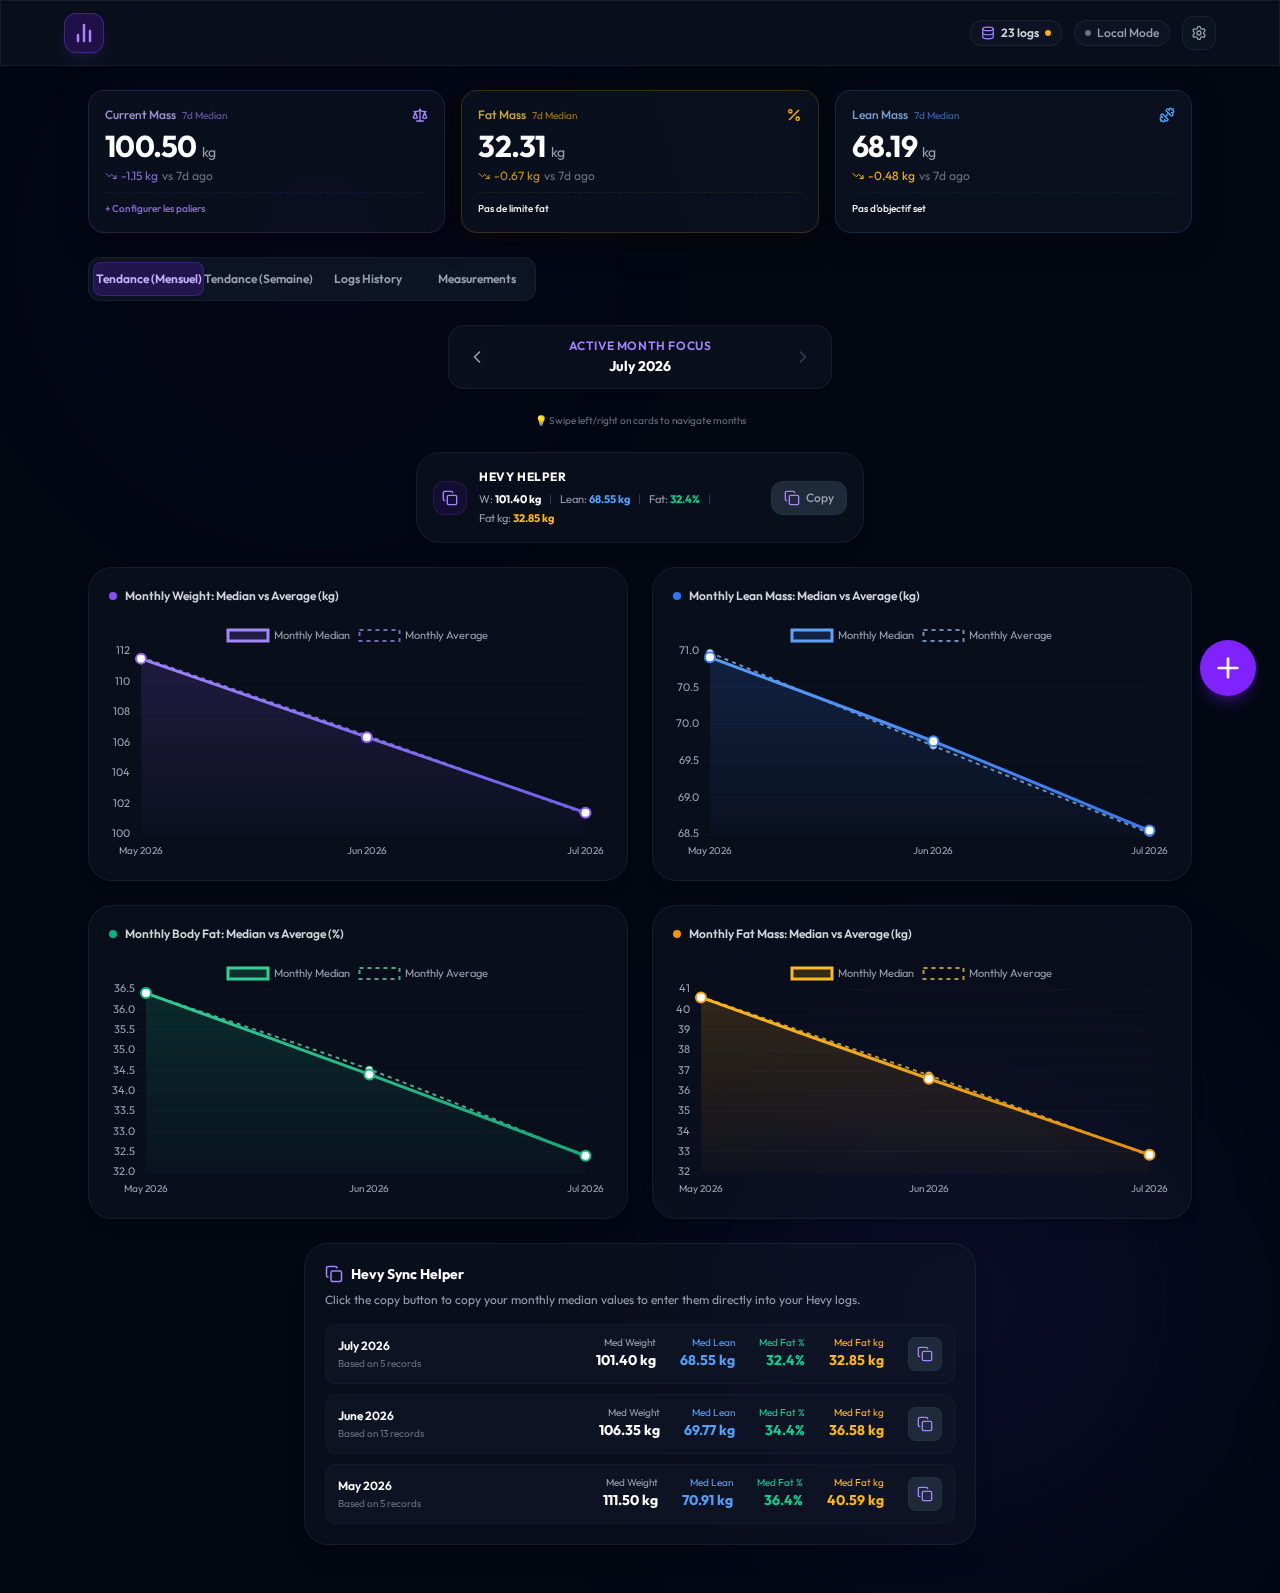
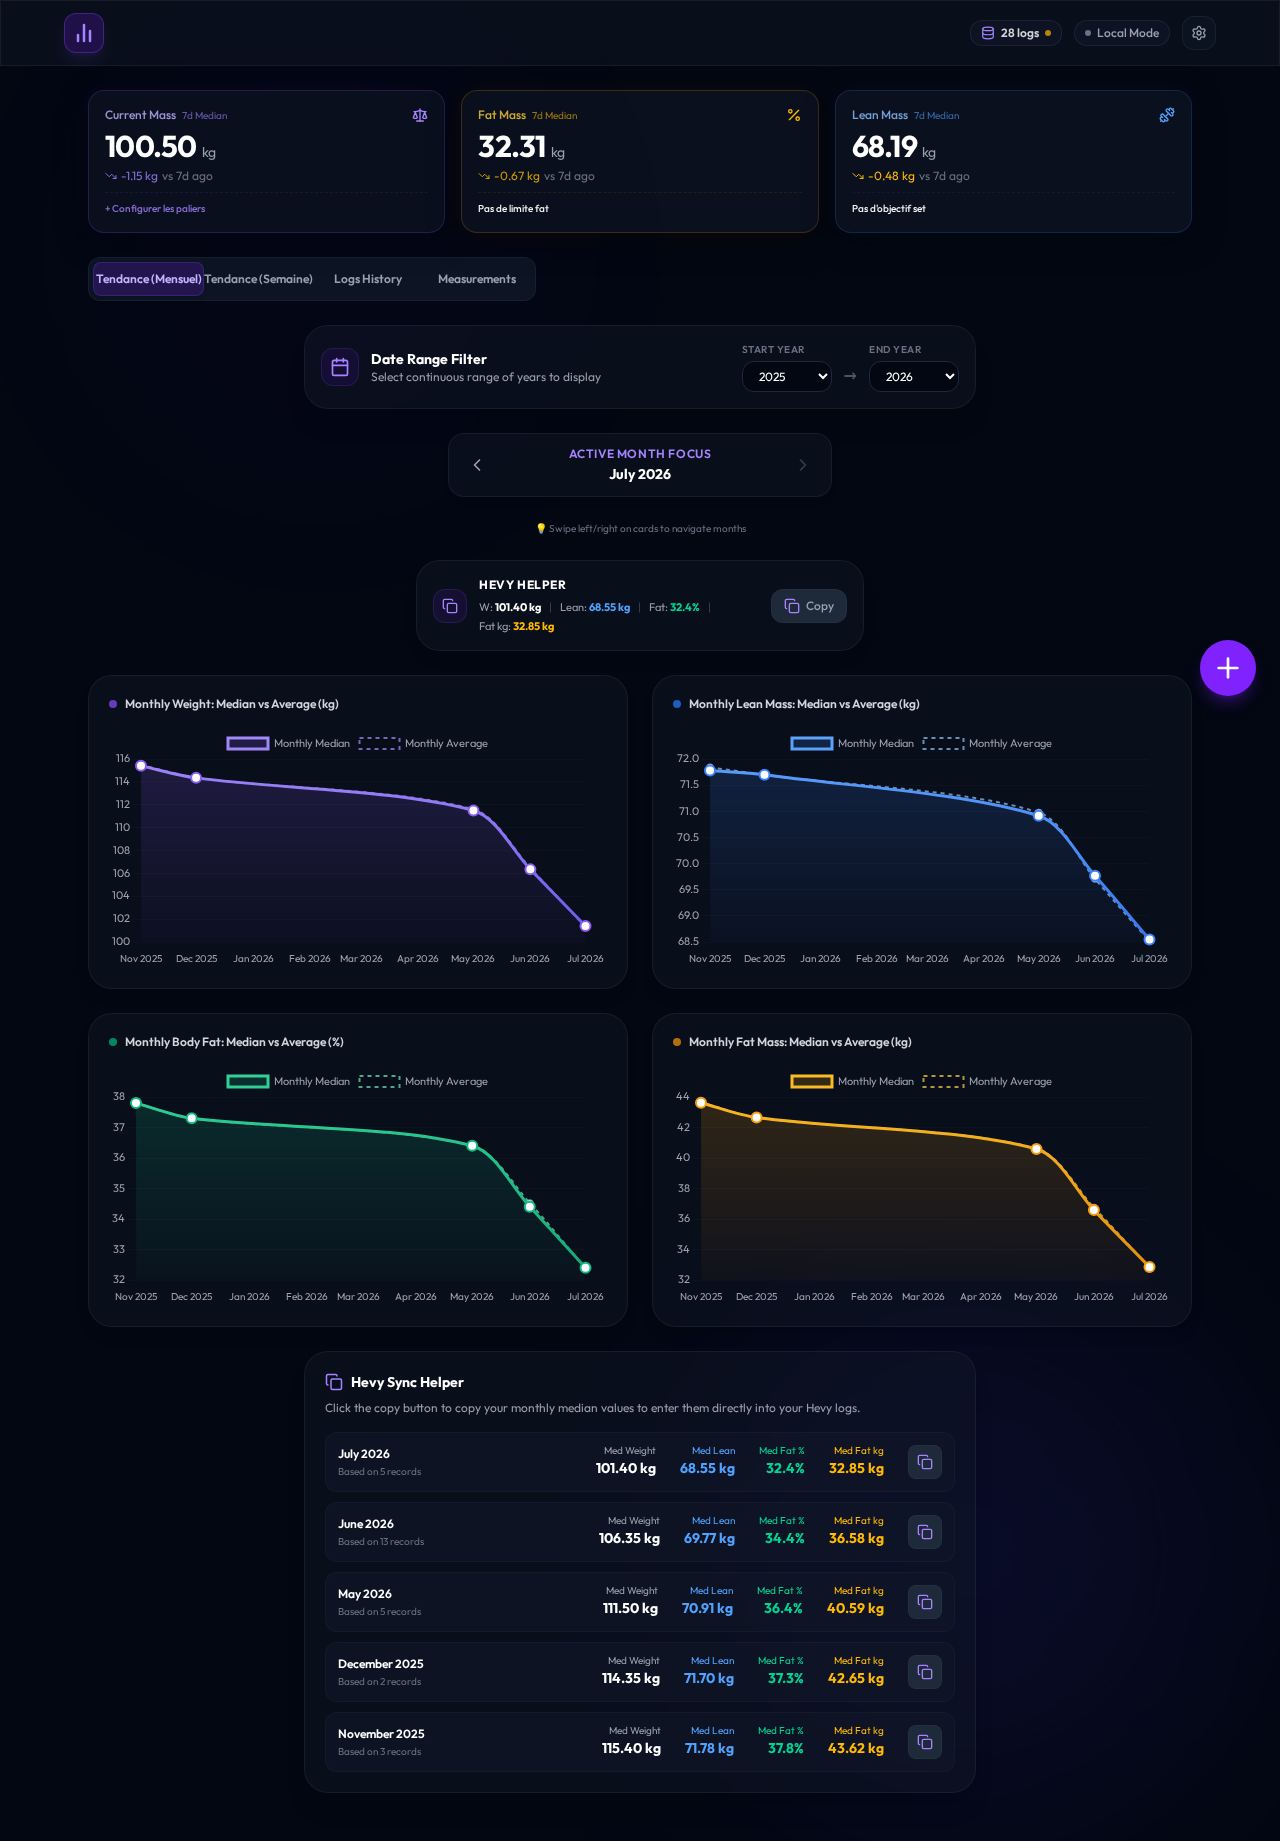
feat: implement dynamic year range selector for trend charts and Hevy sync list (#43)
- Updated the database seed datasets in `tests/db-helper.js` and `tests/bodyGraph.store.unit.spec.js` to cover 2+ years of logs (extending into late 2025 and 2026).
- Implemented state variables `startYear` and `endYear` along with the `availableYears` getter in the Pinia store (`src/stores/bodyGraph.js`).
- Integrated dynamic filtering by selected year range into `groupedMonths` and `groupedWeeks` store getters, keeping top-level dashboard statistics unaffected.
- Created a premium glassmorphic `YearRangeSelector.vue` component with automatic date range constraints and dropdown select options.
- Incorporated `YearRangeSelector` into `ProgressCharts.vue` along with automated watchers to safely clamp month and week focus indices upon range modifications.
- Adjusted all Vitest and Playwright test suites to align with updated database seed lengths; all tests pass successfully.

diff --git a/tests/bodyGraph.store.unit.spec.js b/tests/bodyGraph.store.unit.spec.js
@@ -68,7 +68,14 @@ const { mockLogs, mockMeasurements } = vi.hoisted(() => {
       { id: 'y2', date: '2026-05-20', mass: 111.20, body_fat: 36.3, synced: true, user_id: 'guest' },
       { id: 'y3', date: '2026-05-15', mass: 111.50, body_fat: 36.4, synced: true, user_id: 'guest' },
       { id: 'y4', date: '2026-05-10', mass: 112.10, body_fat: 36.5, synced: true, user_id: 'guest' },
-      { id: 'y5', date: '2026-05-05', mass: 112.40, body_fat: 36.6, synced: true, user_id: 'guest' }
+      { id: 'y5', date: '2026-05-05', mass: 112.40, body_fat: 36.6, synced: true, user_id: 'guest' },
+
+      // --- Late 2025 (Second year data coverage) ---
+      { id: 'h1', date: '2025-12-15', mass: 114.20, body_fat: 37.2, synced: true, user_id: 'guest' },
+      { id: 'h2', date: '2025-12-10', mass: 114.50, body_fat: 37.4, synced: true, user_id: 'guest' },
+      { id: 'h3', date: '2025-11-28', mass: 115.10, body_fat: 37.6, synced: true, user_id: 'guest' },
+      { id: 'h4', date: '2025-11-20', mass: 115.40, body_fat: 37.8, synced: true, user_id: 'guest' },
+      { id: 'h5', date: '2025-11-12', mass: 116.00, body_fat: 38.0, synced: true, user_id: 'guest' }
     ],
     mockMeasurements: [
       // An unsynced entry for offline/unsynced test coverage
@@ -184,7 +191,7 @@ describe('useBodyGraphStore', () => {
     it('groupedMonths processes and sorts logs into monthly groups correctly', () => {
       const store = useBodyGraphStore();
       const months = store.groupedMonths;
-      expect(months).toHaveLength(3);
+      expect(months).toHaveLength(5);
 
       // July 2026 (newest month should be first)
       expect(months[0].id).toBe('2026-07');
@@ -301,23 +308,31 @@ describe('useBodyGraphStore', () => {
 
     it('goToPreviousMonth/goToNextMonth navigates months bounds safely', () => {
       const store = useBodyGraphStore();
-      expect(store.groupedMonths).toHaveLength(3);
+      const count = store.groupedMonths.length;
+      expect(count).toBe(5);
       expect(store.selectedMonthIndex).toBe(0);
 
       store.goToPreviousMonth();
       expect(store.selectedMonthIndex).toBe(1);
 
-      store.goToPreviousMonth();
-      expect(store.selectedMonthIndex).toBe(2);
+      // Navigate to the end
+      for (let i = 2; i < count; i++) {
+        store.goToPreviousMonth();
+      }
+      const maxIndex = count - 1;
+      expect(store.selectedMonthIndex).toBe(maxIndex);
 
       // Boundary check
       store.goToPreviousMonth();
-      expect(store.selectedMonthIndex).toBe(2);
+      expect(store.selectedMonthIndex).toBe(maxIndex);
 
       store.goToNextMonth();
-      expect(store.selectedMonthIndex).toBe(1);
+      expect(store.selectedMonthIndex).toBe(maxIndex - 1);
 
-      store.goToNextMonth();
+      // Navigate back to 0
+      for (let i = maxIndex - 1; i > 0; i--) {
+        store.goToNextMonth();
+      }
       expect(store.selectedMonthIndex).toBe(0);
 
       // Boundary check
@@ -354,7 +369,7 @@ describe('useBodyGraphStore', () => {
       await store.enableGuestMode();
       expect(store.isGuestMode).toBe(true);
       expect(db.getAllLogs).toHaveBeenCalledWith('guest');
-      expect(store.logs).toHaveLength(23);
+      expect(store.logs).toHaveLength(28);
     });
 
     it('syncSingleGoalsFromActivePalier pulls targets from first unvalidated palier', () => {
@@ -453,7 +468,7 @@ describe('useBodyGraphStore', () => {
       expect(store.isGuestMode).toBe(false);
       expect(supabase.auth.signOut).toHaveBeenCalled();
       expect(db.getAllLogs).toHaveBeenCalledWith('guest');
-      expect(store.logs).toHaveLength(23);
+      expect(store.logs).toHaveLength(28);
     });
 
     it('initAuth sets up targets and sets up supabase auth callbacks', async () => {

diff --git a/tests/db.spec.js b/tests/db.spec.js
@@ -36,11 +36,11 @@ test.describe('IndexedDB Database Helpers', () => {
       return await window.__db.getAllLogs('guest');
     });
 
-    // Check we have the 23 logs from MOCK_LOGS
-    expect(guestLogs).toHaveLength(23);
+    // Check we have the 28 logs from MOCK_LOGS
+    expect(guestLogs).toHaveLength(28);
     // Verify descending order by checking first and last dates
     expect(guestLogs[0].date).toBe('2026-07-15');
-    expect(guestLogs[22].date).toBe('2026-05-05');
+    expect(guestLogs[27].date).toBe('2025-11-12');
 
     // 2. Add a new log entry to test saveLog additions
     const newLog = { date: '2026-07-20', mass: 99.5, body_fat: 31.5, synced: false };
@@ -55,7 +55,7 @@ test.describe('IndexedDB Database Helpers', () => {
     const updatedGuestLogs = await page.evaluate(async () => {
       return await window.__db.getAllLogs('guest');
     });
-    expect(updatedGuestLogs).toHaveLength(24);
+    expect(updatedGuestLogs).toHaveLength(29);
     expect(updatedGuestLogs[0].date).toBe('2026-07-20');
 
     // 3. Test saving a log for a different user to verify user_id isolation
@@ -70,17 +70,17 @@ test.describe('IndexedDB Database Helpers', () => {
     expect(userLogs).toHaveLength(1);
     expect(userLogs[0].mass).toBe(90);
 
-    // Verify guest logs still has 24 logs
+    // Verify guest logs still has 29 logs
     const finalGuestLogs = await page.evaluate(async () => {
       return await window.__db.getAllLogs('guest');
     });
-    expect(finalGuestLogs).toHaveLength(24);
+    expect(finalGuestLogs).toHaveLength(29);
   });
 
   test('deleteLog removes logs and tracks deletions offline', async ({ page }) => {
     // 1. Verify log exists in the seeded dataset
     let logs = await page.evaluate(async () => await window.__db.getAllLogs('guest'));
-    expect(logs).toHaveLength(23);
+    expect(logs).toHaveLength(28);
 
     // 2. Delete an existing synced log (e.g. 'j3')
     const deletedId = await page.evaluate(async () => {
@@ -88,9 +88,9 @@ test.describe('IndexedDB Database Helpers', () => {
     });
     expect(deletedId).toBe('j3');
 
-    // 3. Verify it is gone from the main store (count becomes 22)
+    // 3. Verify it is gone from the main store (count becomes 27)
     logs = await page.evaluate(async () => await window.__db.getAllLogs('guest'));
-    expect(logs).toHaveLength(22);
+    expect(logs).toHaveLength(27);
     expect(logs.find(l => l.id === 'j3')).toBeUndefined();
 
     // 4. Verify deletion is recorded in pending deletions store
@@ -196,7 +196,7 @@ test.describe('IndexedDB Database Helpers', () => {
     // 1. Verify we have guest logs and measurements initially
     const initialGuestLogs = await page.evaluate(async () => await window.__db.getAllLogs('guest'));
     const initialGuestMs = await page.evaluate(async () => await window.__db.getAllMeasurements('guest'));
-    expect(initialGuestLogs).toHaveLength(23);
+    expect(initialGuestLogs).toHaveLength(28);
     expect(initialGuestMs).toHaveLength(3);
 
     // 2. Run guest migration to a new user
@@ -214,7 +214,7 @@ test.describe('IndexedDB Database Helpers', () => {
     const migratedLogs = await page.evaluate(async () => await window.__db.getAllLogs('user-new-456'));
     const migratedMs = await page.evaluate(async () => await window.__db.getAllMeasurements('user-new-456'));
 
-    expect(migratedLogs).toHaveLength(23);
+    expect(migratedLogs).toHaveLength(28);
     expect(migratedLogs[0].user_id).toBe('user-new-456');
     expect(migratedLogs[0].synced).toBe(false);
 

diff --git a/src/stores/bodyGraph.js b/src/stores/bodyGraph.js
@@ -93,6 +93,8 @@ export const useBodyGraphStore = defineStore('bodyGraph', {
     targetMass: null,
     targetFat: null,
     paliers: [],
+    startYear: null,
+    endYear: null,
     
     // Index of the month in the groupedMonths list (0 is the newest month)
     selectedMonthIndex: 0,
@@ -104,6 +106,19 @@ export const useBodyGraphStore = defineStore('bodyGraph', {
   }),
 
   getters: {
+    availableYears(state) {
+      if (state.logs.length === 0) return [];
+      const yearsSet = new Set();
+      for (const log of state.logs) {
+        if (log.date) {
+          const yr = new Date(log.date).getFullYear();
+          if (!isNaN(yr)) {
+            yearsSet.add(yr);
+          }
+        }
+      }
+      return Array.from(yearsSet).sort((a, b) => b - a);
+    },
     showDashboard: (state) => {
       return !!state.user || state.isGuestMode;
     },
@@ -148,8 +163,16 @@ export const useBodyGraphStore = defineStore('bodyGraph', {
     // Groups logs into weeks (Monday to Sunday) and computes stats
     // Groups logs into months and computes true median stats based on all raw logs
     groupedMonths() {
-      const logsToUse = this.logsWithEstimates;
+      let logsToUse = this.logsWithEstimates;
       if (logsToUse.length === 0) return [];
+
+      // Filter by start and end years if they are set
+      if (this.startYear !== null && this.endYear !== null) {
+        logsToUse = logsToUse.filter(log => {
+          const yr = new Date(log.date).getFullYear();
+          return yr >= this.startYear && yr <= this.endYear;
+        });
+      }
 
       const groups = {};
 
@@ -204,8 +227,16 @@ export const useBodyGraphStore = defineStore('bodyGraph', {
     },
 
     groupedWeeks() {
-      const logsToUse = this.logsWithEstimates;
+      let logsToUse = this.logsWithEstimates;
       if (logsToUse.length === 0) return [];
+
+      // Filter by start and end years if they are set
+      if (this.startYear !== null && this.endYear !== null) {
+        logsToUse = logsToUse.filter(log => {
+          const yr = new Date(log.date).getFullYear();
+          return yr >= this.startYear && yr <= this.endYear;
+        });
+      }
 
       const groups = {};
 
@@ -713,6 +744,17 @@ export const useBodyGraphStore = defineStore('bodyGraph', {
       try {
         this.logs = await getAllLogs(this.currentUserId);
         this.measurements = await getAllMeasurements(this.currentUserId);
+
+        // Initialize start and end years if not set or if they are no longer in availableYears
+        const years = this.availableYears;
+        if (years.length > 0) {
+          if (this.startYear === null || !years.includes(this.startYear)) {
+            this.startYear = years[years.length - 1]; // Oldest year
+          }
+          if (this.endYear === null || !years.includes(this.endYear)) {
+            this.endYear = years[0]; // Newest year
+          }
+        }
         
         // Cleanly clamp selected indices after loading logs to keep bounds valid
         const maxMonthIndex = this.groupedMonths.length - 1;

diff --git a/src/components/YearRangeSelector.vue b/src/components/YearRangeSelector.vue
@@ -1,0 +1,44 @@
+<template>
+  <div class="glass-card p-4 rounded-3xl max-w-2xl mx-auto shadow-xl flex flex-col sm:flex-row items-center justify-between gap-4 border border-gray-800/40">
+    <div class="flex items-center gap-3">
+      <div class="p-2 rounded-xl bg-violet-600/10 border border-violet-500/15">
+        <Calendar class="w-5 h-5 text-violet-400" />
+      </div>
+      <div>
+        <h4 class="text-sm font-bold text-white">Date Range Filter</h4>
+        <p class="text-xs text-gray-400">Select continuous range of years to display</p>
+      </div>
+    </div>
+
+    <div class="flex items-center gap-3 w-full sm:w-auto">
+      <div class="flex-1 sm:flex-initial flex flex-col gap-1">
+        <label class="text-[10px] text-gray-500 uppercase tracking-wider font-semibold">Start Year</label>
+        <select
+          v-model="store.startYear"
+          class="bg-gray-950 border border-gray-800 rounded-xl px-3 py-1.5 text-xs text-white focus:outline-none focus:border-violet-500 cursor-pointer min-w-[90px]"
+        >
+          <option v-for="yr in store.availableYears.slice().reverse()" :key="yr" :value="yr">{{ yr }}</option>
+        </select>
+      </div>
+
+      <div class="text-gray-600 mt-4 font-bold">→</div>
+
+      <div class="flex-1 sm:flex-initial flex flex-col gap-1">
+        <label class="text-[10px] text-gray-500 uppercase tracking-wider font-semibold">End Year</label>
+        <select
+          v-model="store.endYear"
+          class="bg-gray-950 border border-gray-800 rounded-xl px-3 py-1.5 text-xs text-white focus:outline-none focus:border-violet-500 cursor-pointer min-w-[90px]"
+        >
+          <option v-for="yr in store.availableYears" :key="yr" :value="yr" :disabled="yr < store.startYear">{{ yr }}</option>
+        </select>
+      </div>
+    </div>
+  </div>
+</template>
+
+<script setup>
+import { Calendar } from 'lucide-vue-next';
+import { useBodyGraphStore } from '../stores/bodyGraph';
+
+const store = useBodyGraphStore();
+</script>

diff --git a/src/components/ProgressCharts.vue b/src/components/ProgressCharts.vue
@@ -14,6 +14,9 @@
   </div>
 
   <div v-else class="space-y-6">
+
+    <!-- DATE RANGE FILTER BAR -->
+    <YearRangeSelector />
     
     <!-- 1. MONTHLY VIEW -->
     <div 
@@ -364,10 +367,11 @@
 
 <script setup>
 import { ref, onMounted, onUnmounted, watch, nextTick } from 'vue';
-import { Scale, Plus, ChevronLeft, ChevronRight, Copy, Check } from 'lucide-vue-next';
+import { Scale, Plus, ChevronLeft, ChevronRight, Copy, Check, Calendar } from 'lucide-vue-next';
 import { Chart, registerables } from 'chart.js';
 import 'chartjs-adapter-date-fns';
 import { useBodyGraphStore } from '../stores/bodyGraph';
+import YearRangeSelector from './YearRangeSelector.vue';
 
 Chart.register(...registerables);
 
@@ -1398,7 +1402,30 @@ const drawAll = () => {
   }
 };
 
-watch([() => store.logs, () => store.activeTab, () => store.paliers], () => {
+watch(() => store.startYear, (newStart) => {
+  if (store.endYear !== null && newStart > store.endYear) {
+    store.endYear = newStart;
+  }
+});
+
+watch(() => store.endYear, (newEnd) => {
+  if (store.startYear !== null && newEnd < store.startYear) {
+    store.startYear = newEnd;
+  }
+});
+
+watch([() => store.logs, () => store.activeTab, () => store.paliers, () => store.startYear, () => store.endYear], () => {
+  // Clamp indices if they are out of bounds after filtering
+  const maxMonthIndex = store.groupedMonths.length - 1;
+  if (store.selectedMonthIndex > maxMonthIndex) {
+    store.selectedMonthIndex = Math.max(0, maxMonthIndex);
+  }
+
+  const maxIndex = store.groupedWeeks.length - 1;
+  if (store.selectedWeekIndex > maxIndex) {
+    store.selectedWeekIndex = Math.max(0, maxIndex);
+  }
+
   drawAll();
 }, { deep: true });
 

diff --git a/tests/db-helper.js b/tests/db-helper.js
@@ -27,7 +27,14 @@ export const MOCK_LOGS = [
   { id: 'y2', date: '2026-05-20', mass: 111.20, body_fat: 36.3, synced: true, user_id: 'guest' },
   { id: 'y3', date: '2026-05-15', mass: 111.50, body_fat: 36.4, synced: true, user_id: 'guest' },
   { id: 'y4', date: '2026-05-10', mass: 112.10, body_fat: 36.5, synced: true, user_id: 'guest' },
-  { id: 'y5', date: '2026-05-05', mass: 112.40, body_fat: 36.6, synced: true, user_id: 'guest' }
+  { id: 'y5', date: '2026-05-05', mass: 112.40, body_fat: 36.6, synced: true, user_id: 'guest' },
+
+  // --- Late 2025 (Second year data coverage) ---
+  { id: 'h1', date: '2025-12-15', mass: 114.20, body_fat: 37.2, synced: true, user_id: 'guest' },
+  { id: 'h2', date: '2025-12-10', mass: 114.50, body_fat: 37.4, synced: true, user_id: 'guest' },
+  { id: 'h3', date: '2025-11-28', mass: 115.10, body_fat: 37.6, synced: true, user_id: 'guest' },
+  { id: 'h4', date: '2025-11-20', mass: 115.40, body_fat: 37.8, synced: true, user_id: 'guest' },
+  { id: 'h5', date: '2025-11-12', mass: 116.00, body_fat: 38.0, synced: true, user_id: 'guest' }
 ];
 
 export const MOCK_MEASUREMENTS = [

diff --git a/tests/bodyGraph.unit.spec.js b/tests/bodyGraph.unit.spec.js
@@ -58,9 +58,9 @@ describe('getRollingLogsForDate', () => {
 
   it('should correctly select all logs for a larger window (days = 90)', () => {
     // End date is '2026-07-15'. 90-day window covers [2026-04-17, 2026-07-15]
-    // All logs in MOCK_LOGS are between 2026-05-05 and 2026-07-15, so all 23 logs should match.
-    const result = getRollingLogsForDate(MOCK_LOGS, '2026-07-15', 90);
-    expect(result.length).toBe(23);
+    // All logs in MOCK_LOGS are between 2025-11-12 and 2026-07-15, so all 28 logs should match.
+    const result = getRollingLogsForDate(MOCK_LOGS, '2026-07-15', 300);
+    expect(result.length).toBe(28);
   });
 });
 
